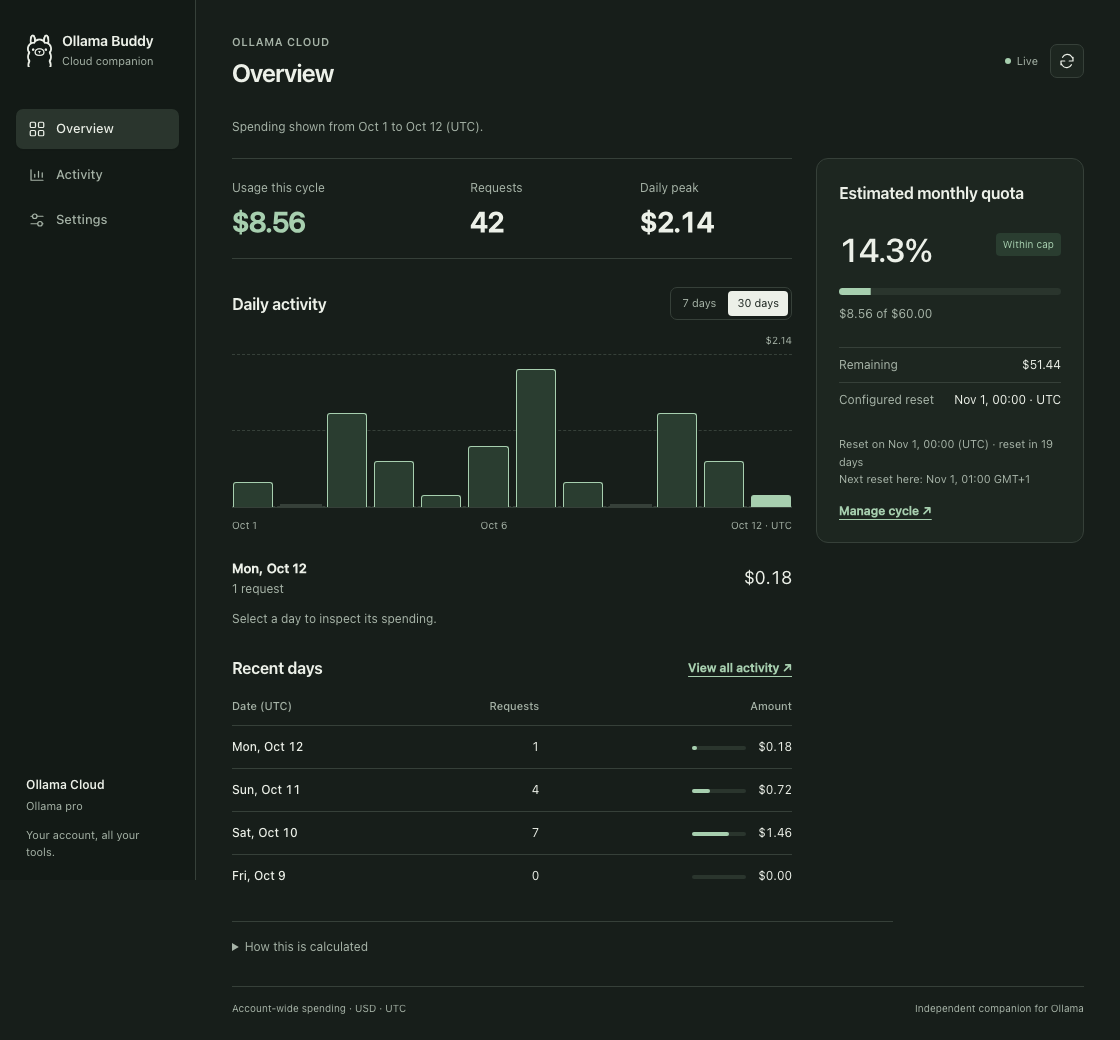
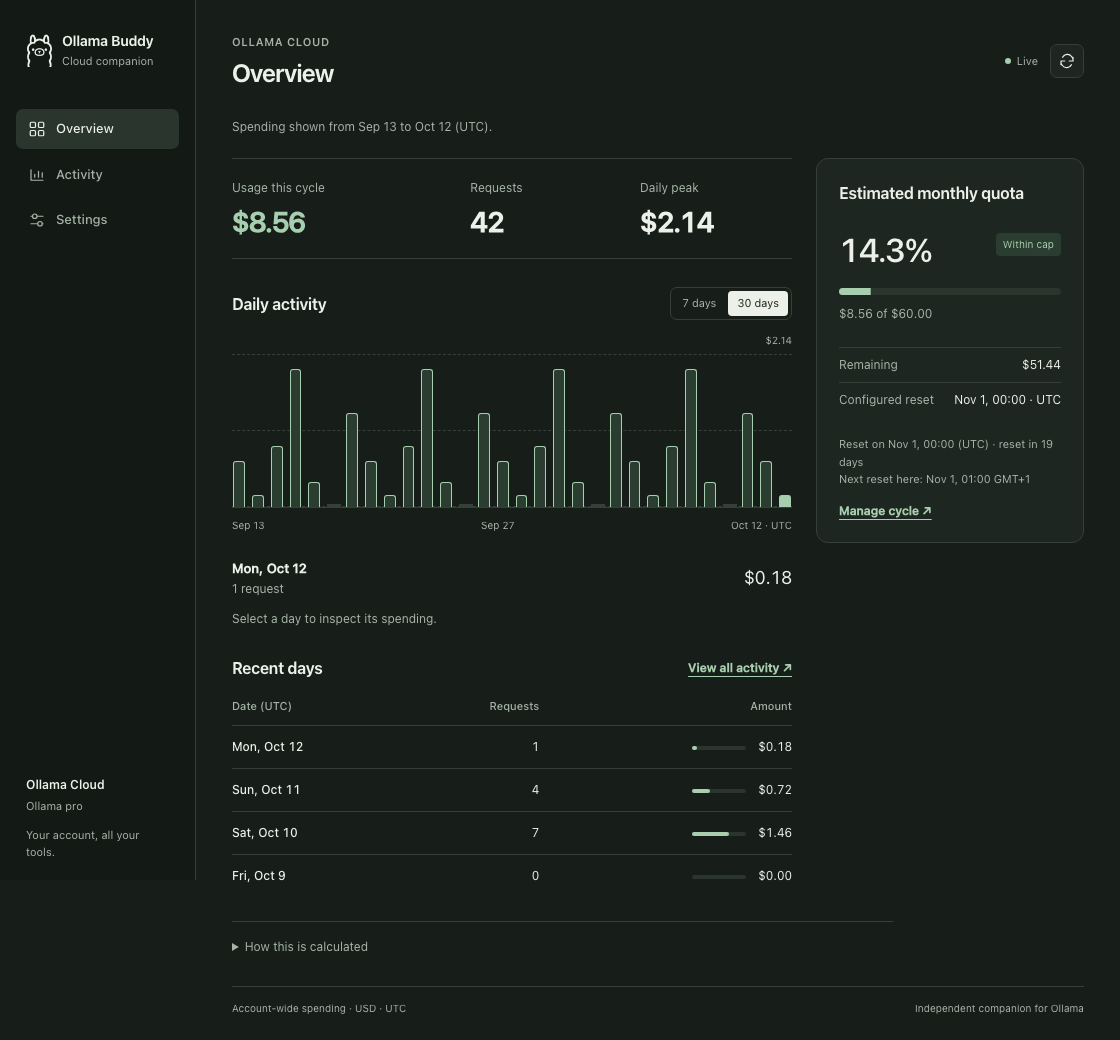
fix(usage): afficher les relevés le jour de réinitialisation
Séparer les relevés quotidiens du cumul estimé du cycle. Afficher les dépenses et requêtes du jour même lorsque la journée partielle ne peut pas être imputée au quota. Remplacer le faux zéro du quota par une explication, couvrir les mises à jour par des tests et actualiser la documentation et ses captures.

Changed region(s): [[0.1875, 0.3385, 0.7188, 0.4923], [0.3438, 0.0923, 0.4062, 0.1231]]

diff --git a/web/index.html b/web/index.html
@@ -219,6 +219,9 @@
    d'afficher un trou. Un texte neuf non traduit reste lisible.
    ===================================================================== */
 const FR = {
+  "Reset day": "Jour de réinitialisation",
+  "Daily spending is available. The quota estimate starts with the first complete UTC day because Ollama cannot split usage at the reset time.": "La dépense quotidienne reste disponible. L’estimation du quota commence au premier jour UTC complet, car Ollama ne permet pas de couper l’usage à l’heure de réinitialisation.",
+
   "Configured reset": "Réinitialisation configurée",
   "Next reset here: {date}": "Prochaine réinitialisation ici : {date}",
   "Reset time is entered in UTC, not local time.": "L’heure de référence est saisie en UTC, pas en heure locale.",
@@ -609,7 +612,8 @@ function renderQuota(q = {}) {
       <p class="hint">${resetLabel(q)}<br>${localResetHint(q)}</p>
       ${q.rate_per_day ? `<details class="projection"><summary>${T('Estimated outlook')}</summary><p>${fill(T('At this rate: <b>+{amount} / day</b>'),{amount:usd(q.rate_per_day)})}${q.projected_at_reset ? '<br>'+fill(T('projected at reset: {amount}'),{amount:usd(q.projected_at_reset)}) : ''}${q.ratio < 1 && q.exhausted_in_days != null && q.days_left != null && q.exhausted_in_days < q.days_left ? `<br><span class="alert">${fill(T('cap reached {when}, before the reset'),{when:whenText(q.exhausted_in_days)})}</span>` : ''}</p></details>` : ''}`;
   } else {
-    const issue = q.error === 'incomplete history' ? ['History incomplete','Some days are missing. Available spending is shown, but a monthly quota cannot be estimated.']
+    const issue = q.error === 'partial reset day' ? ['Reset day','Daily spending is available. The quota estimate starts with the first complete UTC day because Ollama cannot split usage at the reset time.']
+      : q.error === 'incomplete history' ? ['History incomplete','Some days are missing. Available spending is shown, but a monthly quota cannot be estimated.']
       : q.key_error || q.key_storage_error ? ['Account unavailable','Check the connection in Settings or refresh to try again.']
       : !q.monthly ? ['Cap not configured','Enter a monthly cap to calculate the share consumed.']
       : ['No cycle configured','Set a reset reference to estimate your monthly quota. Daily spending remains available.'];
@@ -644,7 +648,7 @@ function renderChart(days) {
 
 function renderContent(data) {
   const app = document.getElementById('app');
-  const days = data.days || [];
+  const days = data.daily_days || data.days || [];
   const sub = document.getElementById('sub');
   document.getElementById('view-title').textContent = T(VIEW_TITLES[currentView]);
   document.querySelectorAll('.nav [data-view]').forEach(el=>{
@@ -657,11 +661,16 @@ function renderContent(data) {
   if (currentView === 'settings') { app.innerHTML = renderSettings(data); return; }
   if (!data.usage_available) { app.innerHTML = renderConnection(data.quota); return; }
   const cycle = data.period === 'cycle';
-  const metrics = `<div class="metrics"><div class="metric"><span class="k">${cycle ? T('Usage this cycle') : T('Available spending')}</span><span class="v" id="hero">${usd(data.usd || 0)}</span></div><div class="metric"><span class="k">${T('Requests')}</span><span class="v">${fmt(data.requests || 0)}</span></div><div class="metric"><span class="k">${T('Daily peak')}</span><span class="v">${usd(data.peak || 0)}</span></div></div>`;
+  const resetDay = data.quota?.error === 'partial reset day';
+  const today = days.find(day => day.day === new Date().toISOString().slice(0,10));
+  const spending = resetDay ? today?.usd : (data.usd || 0);
+  const requests = resetDay ? today?.requests : (data.requests || 0);
+  const peak = Math.max(0,...days.map(day=>day.usd));
+  const metrics = `<div class="metrics"><div class="metric"><span class="k">${resetDay ? T('Today (UTC)') : cycle ? T('Usage this cycle') : T('Available spending')}</span><span class="v" id="hero">${spending == null ? '…' : usd(spending)}</span></div><div class="metric"><span class="k">${T('Requests')}</span><span class="v">${requests == null ? '…' : fmt(requests)}</span></div><div class="metric"><span class="k">${T('Daily peak')}</span><span class="v">${usd(peak)}</span></div></div>`;
   const source = `<details class="source-note"><summary>${T('How this is calculated')}</summary><p>${T('Cycle spending is estimated from complete UTC days. The first partial day is excluded. This is not a balance published by Ollama.')} ${T("<b>ollama.com</b> publishes each day's usage, in dollars. The cycle is those days added up from its beginning, and the percentage is that sum against the plan's cap.")}</p></details>`;
   app.innerHTML = `${data.error ? `<p class="warn-line" role="alert">${fill(T('Read error: {error}'),{error:escapeHTML(data.error)})}</p>` : ''}
-    ${currentView === 'activity' ? `${metrics}${renderChart(days)}<div class="section-head"><h2>${T('All available days')}</h2><span class="caption">${days.length} ${T('days')}</span></div>${renderLedger(days,data.peak)}${source}` : `
-    <div class="overview-grid"><section class="activity-panel" aria-label="${T('Overview')}">${metrics}${renderChart(days)}<section class="recent-section"><div class="section-head"><h2>${T('Recent days')}</h2><button class="text-button" type="button" data-view="activity">${T('View all activity')} ↗</button></div>${renderLedger(days.slice(-4),data.peak)}</section></section><aside>${renderQuota(data.quota)}</aside></div>${source}`}`;
+    ${currentView === 'activity' ? `${metrics}${renderChart(days)}<div class="section-head"><h2>${T('All available days')}</h2><span class="caption">${days.length} ${T('days')}</span></div>${renderLedger(days,peak)}${source}` : `
+    <div class="overview-grid"><section class="activity-panel" aria-label="${T('Overview')}">${metrics}${renderChart(days)}<section class="recent-section"><div class="section-head"><h2>${T('Recent days')}</h2><button class="text-button" type="button" data-view="activity">${T('View all activity')} ↗</button></div>${renderLedger(days.slice(-4),peak)}</section></section><aside>${renderQuota(data.quota)}</aside></div>${source}`}`;
 }
 
 // A push must preserve unfinished settings, even after focus left a field.
@@ -818,7 +827,7 @@ function applyData(data) {
      rejoueraient a chaque battement du flux. */
   const signature = JSON.stringify({
     usd: data.usd, requests: data.requests, peak: data.peak,
-    days: data.days, usage_available: data.usage_available, period: data.period,
+    days: data.days, daily_days: data.daily_days, usage_available: data.usage_available, period: data.period,
     notifications: data.notifications, notifications_supported: data.notifications_supported,
     quota: { ...data.quota, days_left: Math.floor(data.quota?.days_left ?? -1) },
     theme: data.theme, lang: data.lang, account: data.account, error: data.error,

diff --git a/web/mini.html b/web/mini.html
@@ -72,6 +72,10 @@
    pas de bouton de langue : le reglage se fait dans le tableau de bord, et il
    suit ici comme le theme. */
 const FR = {
+  'Requests': 'Requêtes',
+  'Reset day': 'Jour de réinitialisation',
+  'Daily spending remains available. The quota estimate excludes the partial reset day.': 'La dépense quotidienne reste disponible. L’estimation du quota exclut la journée partielle de réinitialisation.',
+
   'Today (UTC)': 'Aujourd’hui (UTC)',
   'Remaining': 'Disponible',
   'Cap not configured': 'Plafond non configuré',
@@ -169,7 +173,7 @@ function render(d) {
   if (d.theme) applyTheme(d.theme);
   if (d.lang) applyLang(d.lang);
   const ready = q.source === 'api' && typeof q.ratio === 'number';
-  const days = d.days || [];
+  const days = d.daily_days || d.days || [];
   const today = days.find(day=>day.day === new Date().toISOString().slice(0,10));
   const quotaBlock = ready ? `
     <p class="label">${T('Estimated monthly quota')}</p>
@@ -177,13 +181,13 @@ function render(d) {
     <div class="meter" role="img" style="--fill:${severity(q.ratio)}" aria-label="${fill(T('{pct} of the monthly quota'),{pct:pct(q.ratio)})}"><span style="transform:scaleX(${Math.max(0,Math.min(q.ratio,1)).toFixed(4)})"></span></div>
     <p class="sub">${resetLabel(q)}</p>` : `
     <p class="label">${T('Estimated monthly quota')}</p><p class="empty">${q.key_set
-      ? q.error === 'incomplete history' ? T('History incomplete') : q.key_error || q.key_storage_error ? T('Quota unavailable') : !q.monthly ? T('Cap not configured') : T('No cycle configured')
+      ? q.error === 'partial reset day' ? T('Reset day') : q.error === 'incomplete history' ? T('History incomplete') : q.key_error || q.key_storage_error ? T('Quota unavailable') : !q.monthly ? T('Cap not configured') : T('No cycle configured')
       : T('Connect your account')}</p><p class="sub">${q.key_set
-        ? q.error === 'incomplete history' ? T('Incomplete cycle history — open the dashboard for details.')
+        ? q.error === 'partial reset day' ? T('Daily spending remains available. The quota estimate excludes the partial reset day.') : q.error === 'incomplete history' ? T('Incomplete cycle history — open the dashboard for details.')
           : !q.key_error && (q.cycle_known === false || !q.monthly) ? T('Open Settings to enter the reset date and monthly cap.') : T('Cannot read — check your API key in the dashboard.')
         : T('No figures: the quota is read from ollama.com. Open the dashboard to paste your API key.')}</p>`;
   document.getElementById('body').innerHTML = `${quotaBlock}
-    ${d.usage_available ? `<div class="spending"><div><p class="label">${d.period === 'cycle' ? T('This cycle') : T('Available spending')}</p><span class="big">${usd(d.usd || 0)}</span></div><div><p class="label">${T('Today (UTC)')}</p><span class="big">${today ? usd(today.usd) : '…'}</span></div></div>
+    ${d.usage_available ? `<div class="spending"><div><p class="label">${q.error === 'partial reset day' ? T('Today (UTC)') : d.period === 'cycle' ? T('This cycle') : T('Available spending')}</p><span class="big">${q.error === 'partial reset day' && !today ? '…' : usd(q.error === 'partial reset day' ? today.usd : (d.usd || 0))}</span></div><div><p class="label">${T(q.error === 'partial reset day' ? 'Requests' : 'Today (UTC)')}</p><span class="big">${today ? q.error === 'partial reset day' ? exact(today.requests) : usd(today.usd) : '…'}</span></div></div>
       <div class="models">${days.slice(-3).reverse().map(day=>`<div class="m"><span class="n">${dayLabel(day.day)}</span><span class="v">${usd(day.usd)}</span></div>`).join('')}</div>` : ''}
     <div class="actions"><button type="button" id="open">${T('Open the dashboard')} ↗</button></div>`;
   document.getElementById('open').addEventListener('click',()=>{ location.href='ollama-buddy://open'; });
@@ -242,7 +246,7 @@ function connect() {
   stream.onmessage = e => {
     let d; try { d = JSON.parse(e.data); } catch { return; }
     const sig = JSON.stringify({
-      usd: d.usd, requests: d.requests, days: d.days, usage_available: d.usage_available,
+      usd: d.usd, requests: d.requests, days: d.days, daily_days: d.daily_days, usage_available: d.usage_available,
       period: d.period, theme: d.theme, lang: d.lang,
       quota: { ...d.quota, days_left: Math.floor(d.quota?.days_left ?? -1) },
     });

diff --git a/ollama_buddy.py b/ollama_buddy.py
@@ -635,7 +635,8 @@ def build_quota(conn: sqlite3.Connection, cfg: dict, cloud: dict | None = None,
     resets_at, cycle_start, reset_source = reset_window(conn, cfg, now)
     consume = cloud_cycle_usage(cloud, cycle_start)
 
-    if consume is None or monthly <= 0:
+    if (consume is None or monthly <= 0 or
+                cycle_first_day(cycle_start) > now.date().isoformat()):
         return quota_unavailable(conn, cfg, cloud, account)
 
     ratio = consume / monthly
@@ -691,7 +692,9 @@ def quota_unavailable(conn: sqlite3.Connection, cfg: dict, cloud: dict | None = 
     days = cloud_days(cloud)
     return {
         "source": "indisponible",
-        "error": ("incomplete history" if cycle_start and (
+        "error": ("partial reset day" if days is not None and cycle_start and
+                  cycle_first_day(cycle_start) > datetime.now(timezone.utc).date().isoformat()
+                  else "incomplete history" if cycle_start and (
                   (cloud or {}).get("history_complete") is False or
                   (days and cycle_first_day(cycle_start) < days[0]["day"]))
                   else None),
@@ -724,6 +727,7 @@ def empty_usage() -> dict:
     return {
         "unit": "jours",
         "days": [],
+        "daily_days": [],
         "days_total": 0,
         "usd": 0.0,
         "requests": 0,
@@ -745,8 +749,10 @@ def build_cloud_usage(conn: sqlite3.Connection, cfg: dict, cloud: dict) -> dict:
     cycle = cloud_cycle_usage(cloud, start) is not None
     cutoff = first if cycle else (datetime.now(timezone.utc).date() - timedelta(days=29)).isoformat()
     today = datetime.now(timezone.utc).date().isoformat()
+    daily_cutoff = (datetime.now(timezone.utc).date() - timedelta(days=29)).isoformat()
+    daily_days = [day for day in days if daily_cutoff <= day["day"] <= today]
     days = [day for day in days if cutoff <= day["day"] <= today]
-    return {"unit": "jours", "days": days, "days_total": len(days),
+    return {"unit": "jours", "days": days, "daily_days": daily_days, "days_total": len(days),
             "usd": sum(day["usd"] for day in days),
             "requests": sum(day["requests"] for day in days),
             "peak": max((day["usd"] for day in days), default=0),

diff --git a/tests/test_backend.py b/tests/test_backend.py
@@ -207,6 +207,27 @@ class StateTests(StateFixture):
             self.state.update_config({"ollama_api_key": "another-account"})
             self.assertEqual(self.state.conn.execute("SELECT * FROM daily_usage").fetchall(), [])
 
+    def test_daily_usage_updates_on_partial_reset_day(self):
+        with patch.object(buddy, "datetime", wraps=datetime) as clock:
+            clock.now.return_value = utc(2026, 10, 12, 15)
+            self.state.cfg.update(ollama_api_key="test-key", quota_reset_at=epoch(utc(2026, 10, 12, 12)))
+            with patch.object(buddy, "cloud_usage", return_value=usage([("2026-10-12", .2)])):
+                first = self.state.payload()
+            self.assertEqual(first["days"], [])
+            self.assertEqual(first["daily_days"][-1]["usd"], .2)
+            self.assertEqual(first["quota"]["error"], "partial reset day")
+            self.assertIsNone(first["quota"]["ratio"])
+            self.state.invalidate_cloud()
+            with patch.object(buddy, "cloud_usage", return_value=usage([("2026-10-12", .4)])):
+                second = self.state.payload()
+            self.assertEqual(second["daily_days"][-1]["usd"], .4)
+            clock.now.return_value = utc(2026, 10, 13)
+            self.state.invalidate_cloud()
+            with patch.object(buddy, "cloud_usage", return_value=usage([("2026-10-12", .4), ("2026-10-13", .1)])):
+                third = self.state.payload()
+            self.assertEqual(third["quota"]["current"], .1)
+            self.assertEqual(len(third["daily_days"]), 2)
+
     def test_history_gap_and_partial_bucket_do_not_become_complete_usage(self):
         with patch.object(buddy, "datetime", wraps=datetime) as clock:
             clock.now.return_value = utc(2026, 10, 31, 12)

diff --git a/README.fr.md b/README.fr.md
@@ -197,6 +197,13 @@ Les anciens compteurs par modèle sont des archives et ne sont plus affichés.
 L’app se concentre sur les dépenses quotidiennes. Remplacer la clé **ne la révoque
 pas chez Ollama** : la révocation se fait dans les paramètres du site Ollama.
 
+Les graphiques et tableaux affichent les relevés disponibles des 30 derniers
+jours UTC, indépendamment du cycle mensuel estimé. Lorsque la réinitialisation
+a lieu après minuit UTC, les dépenses et requêtes du jour restent visibles et
+s’actualisent. Le quota est indiqué comme indisponible jusqu’au premier jour UTC
+complet, plutôt que d’afficher artificiellement 0 %. Ollama ne permet pas de
+séparer le relevé quotidien à l’heure de réinitialisation.
+
 ## Notifications
 
 Active **Notifications à 70 %, 90 % et 100 %** dans les paramètres de l’app native.

diff --git a/README.md b/README.md
@@ -185,6 +185,12 @@ The old per-model counters are archived data and are no longer displayed. The
 current app focuses on daily spending. Replacing a key **does not revoke it on
 Ollama**; revoke it on Ollama's settings page.
 
+Daily charts and tables show the available records from the last 30 UTC days,
+independently of the estimated monthly cycle. On a reset day that starts after
+midnight UTC, today's spending and requests remain visible and update normally.
+The quota is marked unavailable until the first full UTC day instead of showing
+an artificial 0%. Ollama does not split its daily records at the reset time.
+
 ## Notifications
 
 Enable **Notifications at 70%, 90% and 100%** in Settings in the native app.
